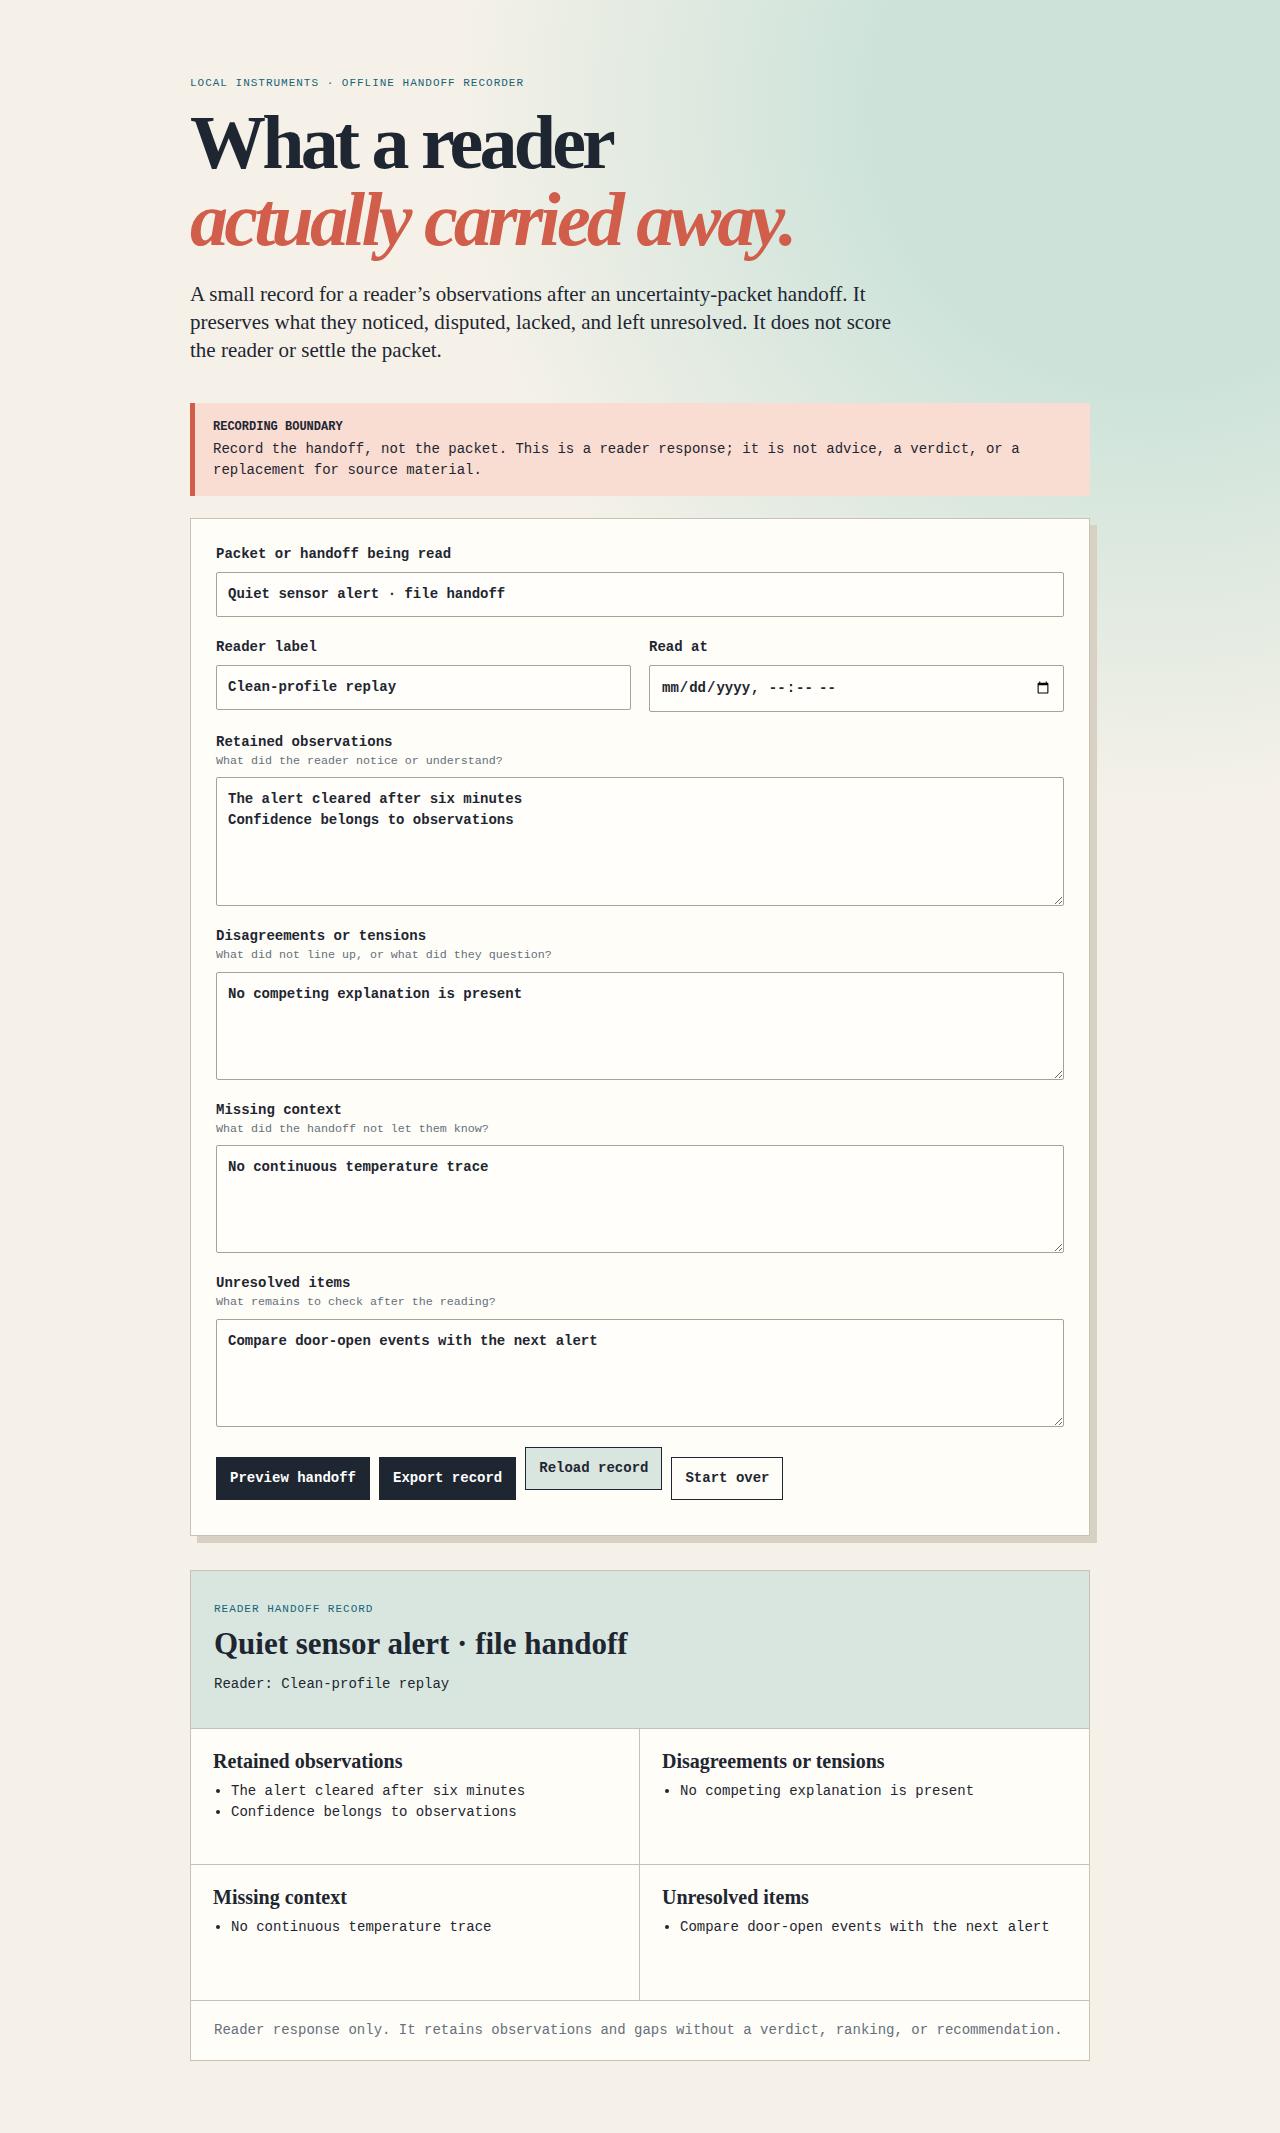
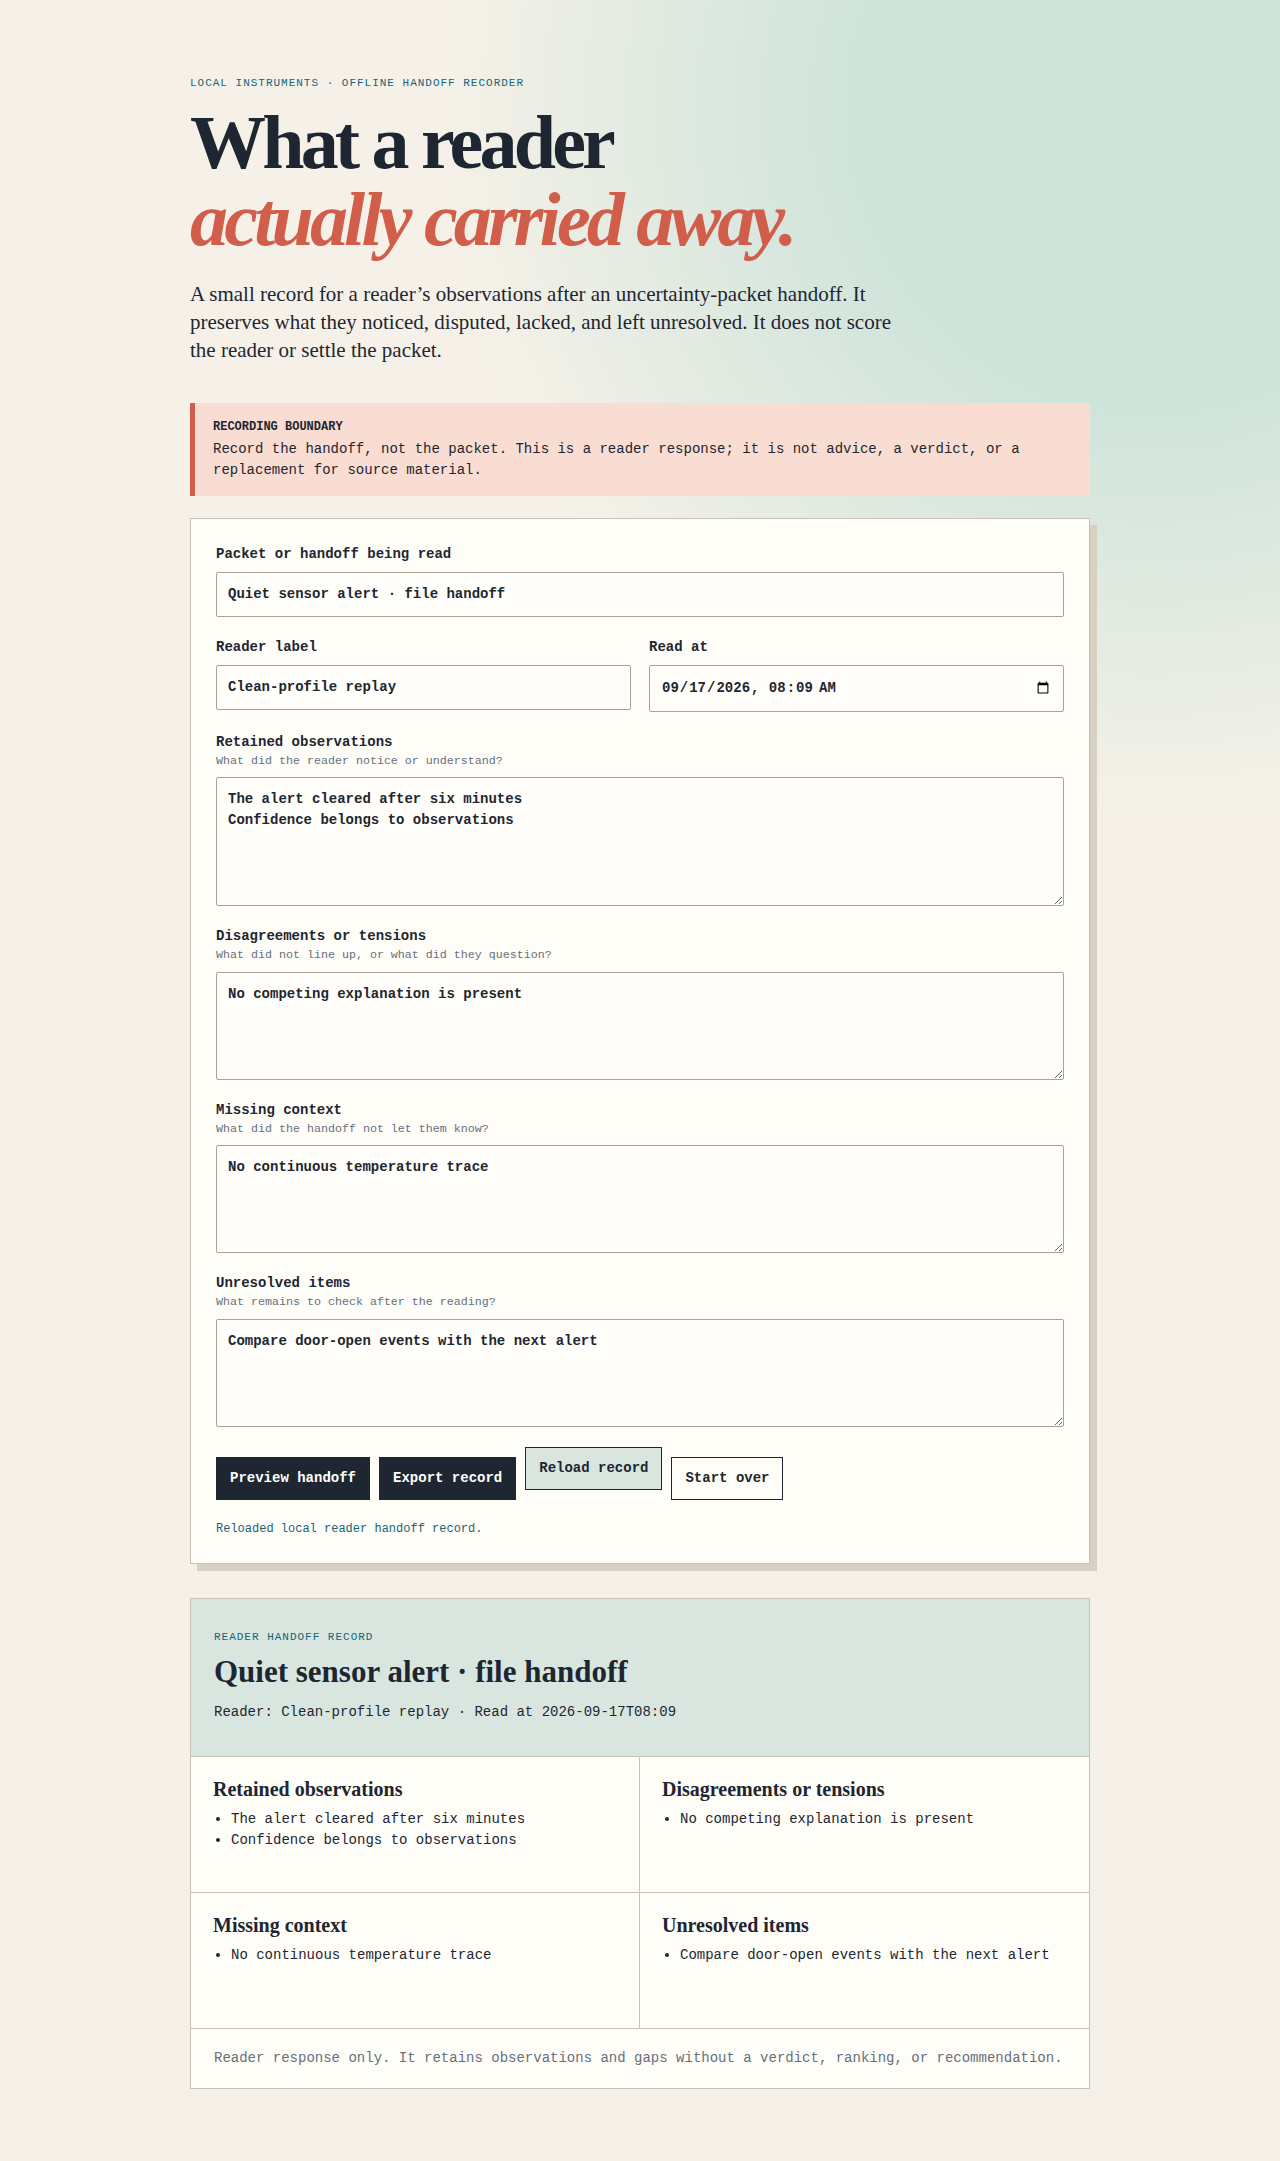
Clarify recorder export and read time

diff --git a/uncertainty-handoff-recorder/style.css b/uncertainty-handoff-recorder/style.css
@@ -1,2 +1,2 @@
 :root { --ink:#1e2631; --paper:#f5f1e8; --panel:#fffdf8; --line:#c9c1b3; --coral:#d15e4a; --blue:#156477; --muted:#65707c; }
-* { box-sizing:border-box; } body { margin:0; color:var(--ink); background:radial-gradient(circle at 90% 5%,#cde3da 0 12%,transparent 30%),var(--paper); font-family:ui-monospace,SFMono-Regular,Consolas,monospace; font-size:14px; line-height:1.5; } main { width:min(900px,calc(100% - 32px)); margin:0 auto; padding:64px 0 72px; } header { max-width:710px; } .eyebrow,.kicker { color:var(--blue); font-size:11px; letter-spacing:.09em; text-transform:uppercase; } h1,h2,h3 { font-family:Georgia,serif; line-height:1.02; } h1 { font-size:clamp(42px,8vw,76px); margin:12px 0 20px; letter-spacing:-.05em; } h1 em { color:var(--coral); } h2 { margin:5px 0 10px; font-size:31px; } h3 { font-size:20px; margin:0 0 10px; } .lede { font-family:Georgia,serif; font-size:21px; line-height:1.35; } .boundary { margin:38px 0 22px; padding:15px 18px; border-left:5px solid var(--coral); background:#f9dcd2; display:grid; gap:3px; } .boundary strong { font-size:12px; text-transform:uppercase; } form { padding:25px; border:1px solid var(--line); background:var(--panel); box-shadow:7px 7px 0 #d8d1c3; } label { display:block; font-weight:bold; margin:0 0 20px; } label small { display:block; color:var(--muted); font-weight:normal; } input,textarea { display:block; width:100%; margin-top:7px; padding:11px; color:var(--ink); border:1px solid #aaa292; border-radius:2px; background:#fffefa; font:inherit; } textarea { resize:vertical; } .two-up { display:grid; grid-template-columns:1fr 1fr; gap:18px; } .actions { display:flex; flex-wrap:wrap; align-items:center; gap:9px; margin-top:4px; } button,.import { cursor:pointer; border:1px solid var(--ink); padding:10px 13px; background:var(--ink); color:white; font:inherit; font-weight:bold; } button:disabled { opacity:.4; cursor:not-allowed; } button.quiet { color:var(--ink); background:transparent; } .import { position:relative; color:var(--ink); background:#d9e6e0; } .import input { position:absolute; inset:0; opacity:0; cursor:pointer; margin:0; } #preview { margin-top:34px; display:grid; grid-template-columns:1fr 1fr; border:1px solid var(--line); background:var(--panel); } .record-head,.boundary-note,.empty,.error { grid-column:1/-1; padding:19px 23px; margin:0; } .record-head { background:#d9e6e0; } #preview article { min-height:136px; padding:22px; border-top:1px solid var(--line); } #preview article:nth-of-type(odd) { border-right:1px solid var(--line); } ul { padding-left:18px; margin:0; } .gap { color:var(--muted); font-style:italic; } .boundary-note { border-top:1px solid var(--line); color:var(--muted); } .error { color:#8d261b; background:#f9dcd2; } @media(max-width:620px) { main { padding-top:35px; } .two-up,#preview { grid-template-columns:1fr; } #preview article:nth-of-type(odd) { border-right:0; } }
+* { box-sizing:border-box; } body { margin:0; color:var(--ink); background:radial-gradient(circle at 90% 5%,#cde3da 0 12%,transparent 30%),var(--paper); font-family:ui-monospace,SFMono-Regular,Consolas,monospace; font-size:14px; line-height:1.5; } main { width:min(900px,calc(100% - 32px)); margin:0 auto; padding:64px 0 72px; } header { max-width:710px; } .eyebrow,.kicker { color:var(--blue); font-size:11px; letter-spacing:.09em; text-transform:uppercase; } h1,h2,h3 { font-family:Georgia,serif; line-height:1.02; } h1 { font-size:clamp(42px,8vw,76px); margin:12px 0 20px; letter-spacing:-.05em; } h1 em { color:var(--coral); } h2 { margin:5px 0 10px; font-size:31px; } h3 { font-size:20px; margin:0 0 10px; } .lede { font-family:Georgia,serif; font-size:21px; line-height:1.35; } .boundary { margin:38px 0 22px; padding:15px 18px; border-left:5px solid var(--coral); background:#f9dcd2; display:grid; gap:3px; } .boundary strong { font-size:12px; text-transform:uppercase; } form { padding:25px; border:1px solid var(--line); background:var(--panel); box-shadow:7px 7px 0 #d8d1c3; } label { display:block; font-weight:bold; margin:0 0 20px; } label small { display:block; color:var(--muted); font-weight:normal; } input,textarea { display:block; width:100%; margin-top:7px; padding:11px; color:var(--ink); border:1px solid #aaa292; border-radius:2px; background:#fffefa; font:inherit; } textarea { resize:vertical; } .two-up { display:grid; grid-template-columns:1fr 1fr; gap:18px; } .actions { display:flex; flex-wrap:wrap; align-items:center; gap:9px; margin-top:4px; } .action-status { min-height:1.5em; margin:10px 0 0; color:var(--blue); font-size:12px; } button,.import { cursor:pointer; border:1px solid var(--ink); padding:10px 13px; background:var(--ink); color:white; font:inherit; font-weight:bold; } button:disabled { opacity:.4; cursor:not-allowed; } button.quiet { color:var(--ink); background:transparent; } .import { position:relative; color:var(--ink); background:#d9e6e0; } .import input { position:absolute; inset:0; opacity:0; cursor:pointer; margin:0; } #preview { margin-top:34px; display:grid; grid-template-columns:1fr 1fr; border:1px solid var(--line); background:var(--panel); } .record-head,.boundary-note,.empty,.error { grid-column:1/-1; padding:19px 23px; margin:0; } .record-head { background:#d9e6e0; } #preview article { min-height:136px; padding:22px; border-top:1px solid var(--line); } #preview article:nth-of-type(odd) { border-right:1px solid var(--line); } ul { padding-left:18px; margin:0; } .gap { color:var(--muted); font-style:italic; } .boundary-note { border-top:1px solid var(--line); color:var(--muted); } .error { color:#8d261b; background:#f9dcd2; } @media(max-width:620px) { main { padding-top:35px; } .two-up,#preview { grid-template-columns:1fr; } #preview article:nth-of-type(odd) { border-right:0; } }

diff --git a/uncertainty-handoff-recorder/app.js b/uncertainty-handoff-recorder/app.js
@@ -3,7 +3,9 @@ const preview = document.querySelector('#preview');
 const exportButton = document.querySelector('#export');
 const importInput = document.querySelector('#import');
 const resetButton = document.querySelector('#reset');
+const exportStatus = document.querySelector('#exportStatus');
 let record = null;
+if (!document.querySelector('#readAt').value) document.querySelector('#readAt').value = new Date().toISOString().slice(0, 16);
 
 const fields = [
   ['observations', 'Retained observations'],
@@ -50,6 +52,7 @@ exportButton.addEventListener('click', () => {
   const blob = new Blob([JSON.stringify(record, null, 2)], { type: 'application/json' });
   const link = Object.assign(document.createElement('a'), { href: URL.createObjectURL(blob), download: 'reader-handoff-record.json' });
   link.click();
+  exportStatus.textContent = 'Export started: reader-handoff-record.json';
   setTimeout(() => URL.revokeObjectURL(link.href), 0);
 });
 importInput.addEventListener('change', async () => {
@@ -58,8 +61,8 @@ importInput.addEventListener('change', async () => {
   try {
     const value = JSON.parse(await file.text());
     if (value.format !== 'uncertainty-reader-handoff/v1' || typeof value.packet !== 'string' || !fields.every(([id]) => Array.isArray(value[id]))) throw new Error('not a reader handoff record');
-    record = value; fill(value); render(value); exportButton.disabled = false;
+    record = value; fill(value); render(value); exportButton.disabled = false; exportStatus.textContent = 'Reloaded local reader handoff record.';
   } catch (error) { preview.innerHTML = `<p class="error">Could not reload this file: ${escape(error.message)}.</p>`; }
   importInput.value = '';
 });
-resetButton.addEventListener('click', () => { form.reset(); record = null; exportButton.disabled = true; preview.innerHTML = '<p class="empty">Fill in the handoff above. Blank sections will remain explicit in the record.</p>'; });
+resetButton.addEventListener('click', () => { form.reset(); document.querySelector('#readAt').value = new Date().toISOString().slice(0, 16); record = null; exportButton.disabled = true; exportStatus.textContent = ''; preview.innerHTML = '<p class="empty">Fill in the handoff above. Blank sections will remain explicit in the record.</p>'; });

diff --git a/uncertainty-handoff-recorder/index.html b/uncertainty-handoff-recorder/index.html
@@ -24,7 +24,7 @@
       <label>Disagreements or tensions <small>What did not line up, or what did they question?</small><textarea id="disagreements" name="disagreements" rows="4" placeholder="One disagreement per line, or leave blank"></textarea></label>
       <label>Missing context <small>What did the handoff not let them know?</small><textarea id="missingContext" name="missingContext" rows="4" placeholder="One missing context item per line, or leave blank"></textarea></label>
       <label>Unresolved items <small>What remains to check after the reading?</small><textarea id="unresolved" name="unresolved" rows="4" placeholder="One unresolved item per line, or leave blank"></textarea></label>
-      <div class="actions"><button type="submit">Preview handoff</button><button id="export" type="button" disabled>Export record</button><label class="import">Reload record<input id="import" type="file" accept="application/json,.json"></label><button id="reset" type="button" class="quiet">Start over</button></div>
+      <div class="actions"><button type="submit">Preview handoff</button><button id="export" type="button" disabled>Export record</button><label class="import">Reload record<input id="import" type="file" accept="application/json,.json"></label><button id="reset" type="button" class="quiet">Start over</button></div><p id="exportStatus" class="action-status" aria-live="polite"></p>
     </form>
     <section id="preview" aria-live="polite" aria-label="Handoff record"><p class="empty">Fill in the handoff above. Blank sections will remain explicit in the record.</p></section>
   </main>
